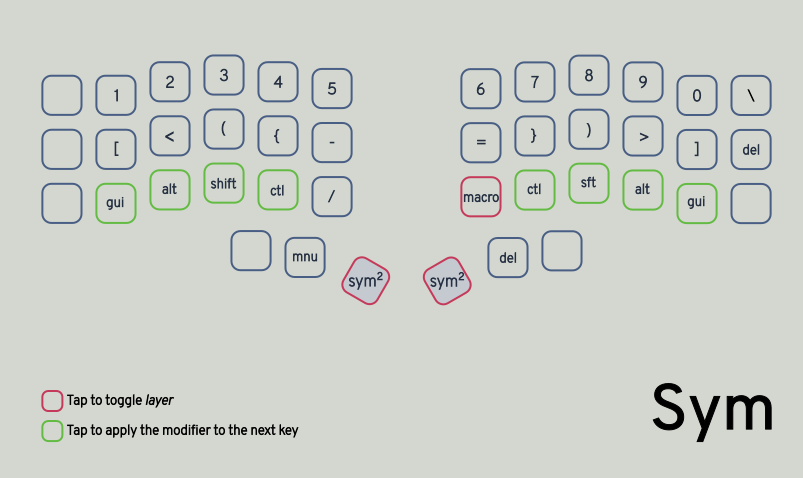
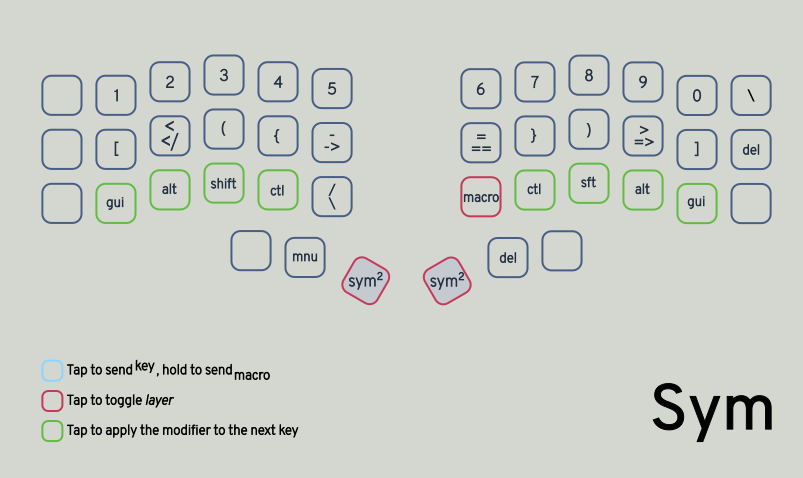
add hold-taps

diff --git a/users/elpfen/keycodes.h b/users/elpfen/keycodes.h
@@ -5,8 +5,6 @@
 #define _RAISE _SYM
 #define _LOWER _NAV
 
-#define MT_OVR(...) LT(0, __VA_ARGS__)
-
 enum elpfen_layers {
     _DVORAK = 0,
     _SYM,
@@ -31,6 +29,8 @@ enum elpfen_custom_keycodes {
     CLS_TAG,     // </
     ELPFEN_KEYCODES_END
 };
+
+#define OOOOOOO KC_TRNS // "This key is pressed for this layer"
 
 // ~~~~~~~~~ Mod-Taps ~~~~~~~~~~
 #define GU_SCLN LGUI_T(KC_SCLN)
@@ -101,35 +101,48 @@ enum elpfen_custom_keycodes {
 #define M_PST   LSFT(KC_INS)
 #define M_SHTAB LSFT(KC_TAB)
 
-/* ~~~~~~~~~ Weird Taps ~~~~~~~~~~
+/* ~~~~~~~~~ Hold-Taps ~~~~~~~~~~
  * Send KEY on tap, and some other behavior on hold by intercepting the hold 
  * event for LT(0, KEY). Overridden in process_record_user.
  *
  * The advantage of using LT(0, KEY) over regular macros is that you don't 
  * have to specify the tap behavior, just the hold behavior.
  */
-// KC_DOT on tap, KC_F13 on hold. F13 mapped in AutoHotkey
-#define M_DOT13 LT(0, KC_DOT)
-// Grave/Tilde on tap, ~/ on hold
-#define TILDE_SLASH LT(0, KC_GRAVE)
+// Keycodes used for hold-tap overrides. Check quantum/keycodes.h for more.
+enum hold_tap_keycodes {
+    HT_VI_WV = KC_NUM_LOCK,
+    HT_VI_L = KC_KP_SLASH,
+    HT_VI_P = KC_KP_ASTERISK,
+    HT_LAB_CLS = KC_KP_MINUS,
+    HT_RAB_DRW = KC_KP_PLUS,
+    // there's like 11 more safe ones before KC_APP
+    _END_KEYPAD_RANGE_ = KC_APPLICATION,
+    _MORE_SAFE_RANGE_ = KC_KP_COMMA,
+};
 
+#define HT(...) LT(0, __VA_ARGS__)
 
-// "This key is pressed for this layer"
-#define OOOOOOO KC_TRNS
+#define M_DOT13     HT(KC_DOT)     // . on tap, F13 on hold
+#define TILDE_SLASH HT(KC_GRAVE)   // Grave/Tilde on tap, ~/ on hold
+#define DASH_ARW    HT(KC_MINS)    // -, ->
+#define EQ_DEQ      HT(KC_EQL)     // =, ==
+#define SLSH_BSLSH  HT(KC_SLSH)    // /, \ on hold
+#define LAB_CLS     HT(HT_LAB_CLS) // <, </ on hold
+#define RAB_DRW     HT(HT_RAB_DRW) // >, => on hold
 
 
 // ~~~~~~~~~ Ableton ~~~~~~~~~~
-#define ZERO_S       MT_OVR(KC_INT1)
-#define CUT_DEL      MT_OVR(KC_INT2)
-#define CPY_PST      MT_OVR(KC_INT3)
-#define NDO_RDO      MT_OVR(KC_INT4)
-#define SPLIT_JOIN   MT_OVR(KC_INT5)
-#define QUANT        MT_OVR(KC_INT6)
-#define GROUP        MT_OVR(KC_INT7)
-#define TAB_SHTAB    MT_OVR(KC_INT8)
-#define Z_X          MT_OVR(KC_INT9)
-#define SPC_SHPC     MT_OVR(KC_LANGUAGE_1)
-#define MIDI_KEY_MAP MT_OVR(KC_LANGUAGE_2)
+#define ZERO_S       HT(KC_INT1)
+#define CUT_DEL      HT(KC_INT2)
+#define CPY_PST      HT(KC_INT3)
+#define NDO_RDO      HT(KC_INT4)
+#define SPLIT_JOIN   HT(KC_INT5)
+#define QUANT        HT(KC_INT6)
+#define GROUP        HT(KC_INT7)
+#define TAB_SHTAB    HT(KC_INT8)
+#define Z_X          HT(KC_INT9)
+#define SPC_SHPC     HT(KC_LANGUAGE_1)
+#define MIDI_KEY_MAP HT(KC_LANGUAGE_2)
 
 #define NOTE_C  KC_A
 #define NOTE_CS KC_W

diff --git a/users/elpfen/elpfen.c b/users/elpfen/elpfen.c
@@ -127,7 +127,7 @@ bool process_macros
     ( uint16_t keycode
     , keyrecord_t *record
     ) {
-    if (!record->event.pressed) return true;
+    if (!record->event.pressed) return true; // ignore keyup
     switch (keycode) {
         case DDOT_SLASH:
             SEND_STRING("../");
@@ -152,6 +152,10 @@ bool process_macros
         case CLS_TAG:
             SEND_STRING("</");
             return false;
+
+        case SLSH_BSLSH:
+            tap_code(KC_BSLS);
+            return false;
     }
     return true;
 }
@@ -161,23 +165,39 @@ bool custom_tap_holds
     ( uint16_t keycode
     , keyrecord_t *record
     ) {
-    switch (keycode) {
-        case M_DOT13: 
-            if (record->tap.count) { // intercept tap
-                return true; // process normally
-            } else if (record->event.pressed) { // intercept hold-down
-                register_code(KC_F13);
-            } else if (!record->event.pressed) { // intercept hold-up
-                unregister_code16(KC_F13);
-            }
-            return false;
-        case TILDE_SLASH: 
-            if (!record->tap.count && record->event.pressed) { // intercept hold
+        if (!record->event.pressed) return true; // ignore tap-up and hold-up
+        switch (keycode) {
+            case LAB_CLS:
+                if (!record->tap.count) {
+                    SEND_STRING("</");
+                    return false;
+                } else {
+                    tap_code16(KC_LABK);
+                    return false;
+                }
+            case RAB_DRW:
+                if (!record->tap.count) {
+                    SEND_STRING("=>");
+                    return false;
+                } else {
+                    tap_code16(KC_RABK);
+                    return false;
+                }
+        }
+        if (record->tap.count) return true;
+
+        switch (keycode) {
+            case TILDE_SLASH:
                 SEND_STRING("~/");
                 return false;
-            } else return true; // pass-through tap
-    }
-    return true;
+            case EQ_DEQ:
+                SEND_STRING("==");
+                return false;
+            case DASH_ARW:
+                SEND_STRING("->");
+                return false;
+        }
+        return true;
 }
 
 /* TAPPING_FORCE_HOLD_PER_KEY: For these specific mod-taps, do not interpret

diff --git a/users/elpfen/keymaps.h b/users/elpfen/keymaps.h
@@ -38,7 +38,7 @@
 #define _____________SYM_2Up_Sides_12k_____________ ___F1_through_F12___
 #define _____________SYM_1Up_Core_10k______________ ___1_through_10___
 #define _____________SYM_1Up_Sides_12k_____________ _______, ___1_through_10___, KC_BSLS
-#define _____________SYM_Home_Core_10k_____________ KC_LBRC, KC_LABK, KC_LPRN, KC_LCBR, KC_MINS, KC_EQL, KC_RCBR,  KC_RPRN, KC_RABK, KC_RBRC
+#define _____________SYM_Home_Core_10k_____________ KC_LBRC, LAB_CLS, KC_LPRN, KC_LCBR, DASH_ARW, EQ_DEQ, KC_RCBR,  KC_RPRN, RAB_DRW, KC_RBRC
 #define _____________SYM_Home_Sides_12k____________ _______, _____________SYM_Home_Core_10k_____________, KC_DEL
 #define _____________SYM_1Dn_Sides_L_6k____________ _______, O_LGUI,  O_LALT, O_LSFT, O_LCTL, KC_SLSH
 #define _____________SYM_1Dn_Sides_R_6k____________                                                     TG_MCR, O_RCTL,  O_LSFT, O_LALT, O_RGUI, _______

diff --git a/users/elpfen/vimmish.h b/users/elpfen/vimmish.h
@@ -3,10 +3,10 @@
 #include "keycodes.h"
 
 #define VI_B C(KC_LEFT)
-#define VI_W RSFT_T(KC_WFAV)
-#define VI_V LALT_T(KC_WFAV)
-#define VI_L LT(0, KC_WWW_REFRESH) // right or home
-#define VI_P LT(0, KC_MAIL) // paste or end
+#define VI_W RSFT_T(HT_VI_WV)
+#define VI_V LALT_T(HT_VI_WV)
+#define VI_L LT(0, HT_VI_L) // right or home
+#define VI_P LT(0, HT_VI_P) // paste or end
 #define VI_Y C(KC_C)
 #define VI_H KC_LEFT
 #define VI_J SH_DN
